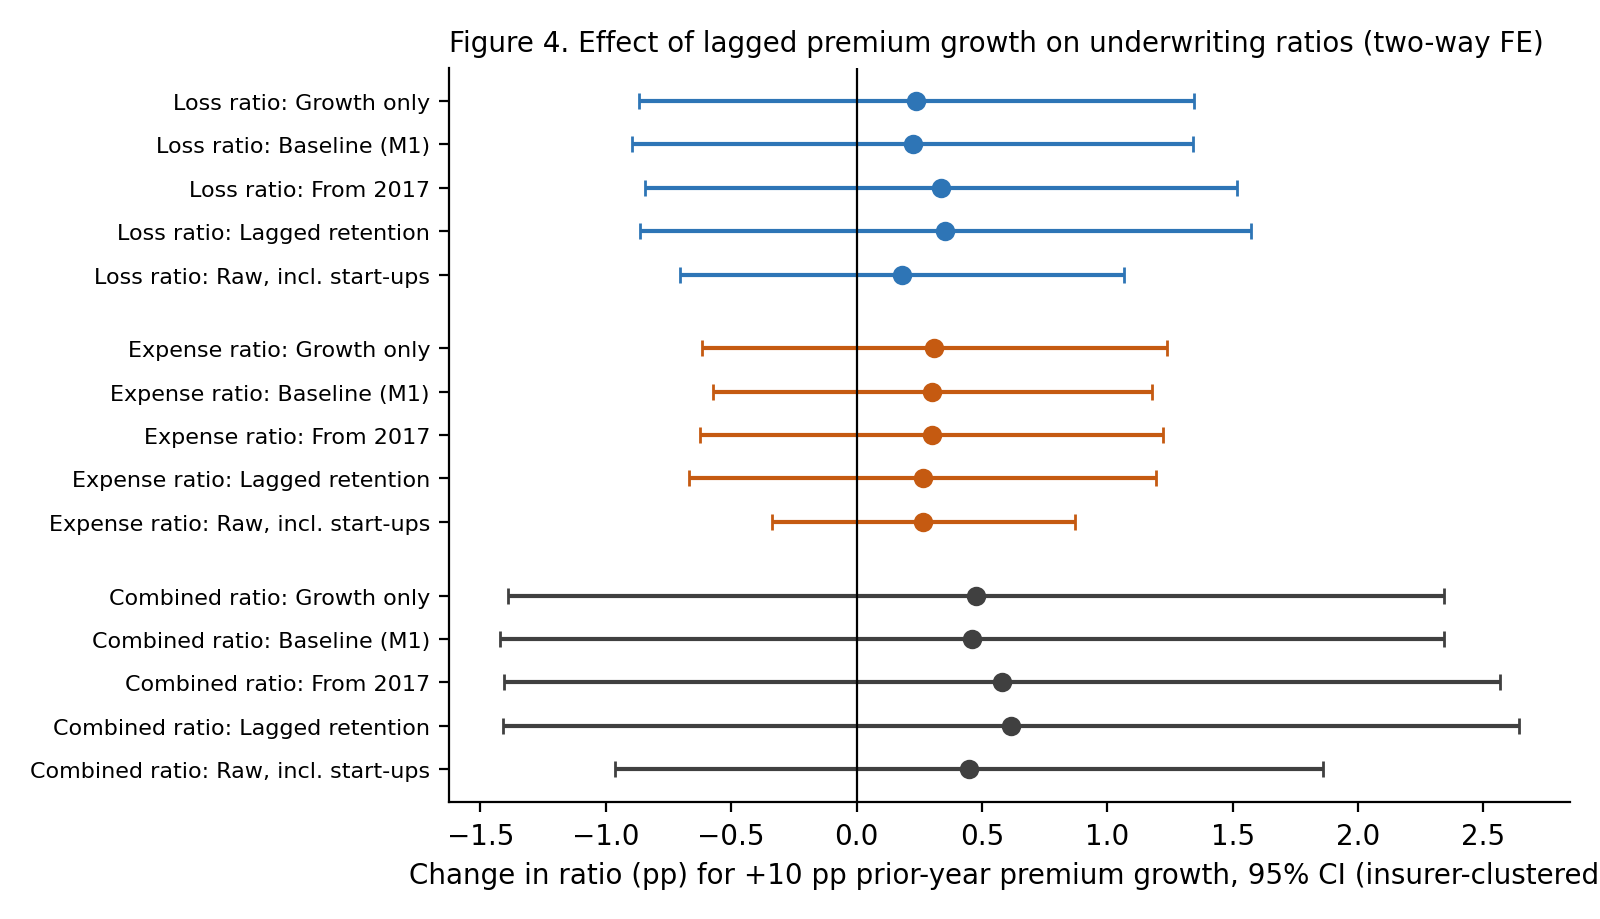
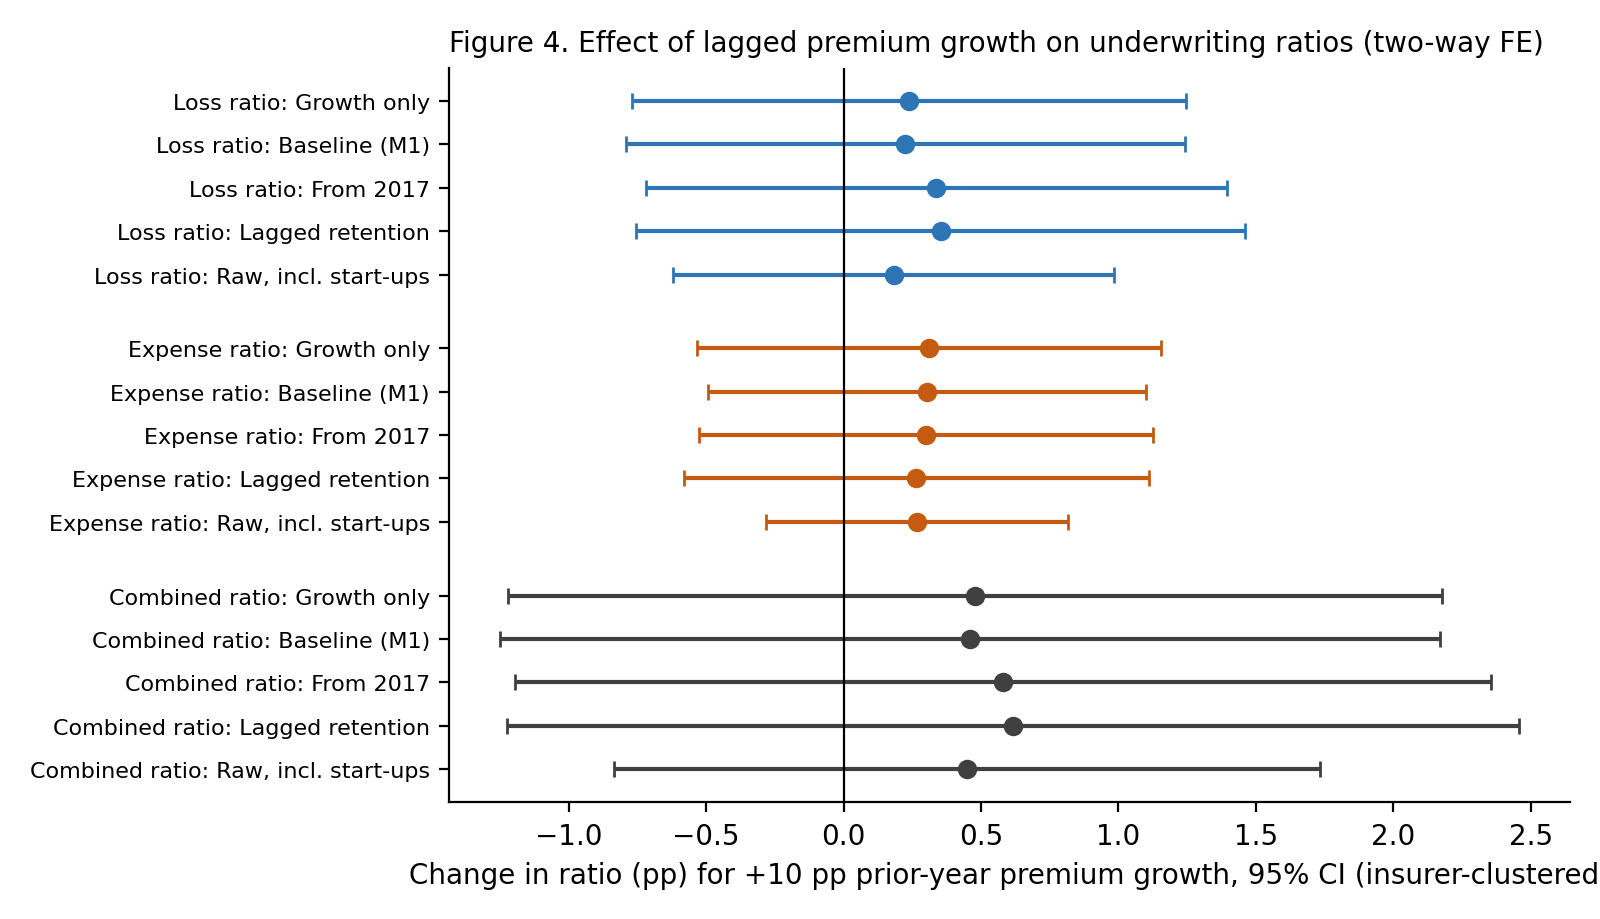
Count year effects but not insurer effects in clustered-SE correction (D12)
Insurer effects are nested within the insurer clusters, so the small-sample
correction should not count them (Stata xtreg/reghdfe; Cameron & Miller 2015).
linearmodels ignores count_effects=False when time_effects=True, so 04's fe()
now enters year effects as explicit dummies for clustered models and fits
with count_effects=False. Driscoll-Kraay, wild cluster bootstrap,
Anderson-Hsiao and diagnostics are unchanged.

- Coefficients, DK SEs, WCB p-values, nobs and r2_within unchanged (r2_within
  kept from the two-way fit; year-dummy rows dropped from regressions.csv).
- Clustered SEs x sqrt((N-k-G-(T-1))/(N-k-(T-1))): 0.909 for headline M1,
  0.890-0.911 across sensitivity models.
- 07: four SE pins updated (0.0519, 0.0406, 0.0873, 5.1425) with comment;
  29 passed, 0 failed.
- No growth result changes significance; size -> ER crosses 5% in M5 and raw
  (p 0.06 -> 0.04). MDE for CR 2.69 -> 2.44 pp per +10 pp growth.
- R Step 1: effect="individual" + factor(year); R SEs now equal Python's.
- Docs: D12 row and note, headline results, D10 TWFE bullet, CLAUDE.md.
- Regenerated regressions.csv, results_summary.json, Figure 4, R_results.txt.

diff --git a/src/04_analysis.py b/src/04_analysis.py
@@ -1,4 +1,5 @@
 import pandas as pd, numpy as np, json, warnings
+from types import SimpleNamespace
 warnings.filterwarnings('ignore')
 from linearmodels.panel import PanelOLS, RandomEffects
 """Step 4: descriptives, two-way FE models, diagnostics, wild cluster bootstrap, Anderson-Hsiao, out-of-sample check.
@@ -44,7 +45,18 @@ base.to_csv(PROCESSED/'estimation_sample.csv',index=False)
 def fe(df,y,X,cov='clustered',time=True):
     d=df.set_index(['insurer_id','year'])
     m=PanelOLS(d[y],d[X],entity_effects=True,time_effects=time,drop_absorbed=True)
-    if cov=='clustered': return m.fit(cov_type='clustered',cluster_entity=True)
+    if cov=='clustered':
+        # SE convention (D12): count year effects but not insurer effects, which are nested in the insurer
+        # clusters (as Stata xtreg/reghdfe; Cameron & Miller 2015). linearmodels ignores count_effects=False
+        # when time_effects=True, so year effects enter as explicit dummies. Coefficients are identical;
+        # r2_within is kept from the two-way fit so it still excludes the year effects.
+        yrs=sorted(d.index.get_level_values(1).unique())[1:] if time else []
+        D=pd.DataFrame({f'_yr{t}':(d.index.get_level_values(1)==t).astype(float) for t in yrs},index=d.index)
+        r=PanelOLS(d[y],pd.concat([d[X],D],axis=1),entity_effects=True,drop_absorbed=True).fit(
+            cov_type='clustered',cluster_entity=True,count_effects=False)
+        X=[c for c in r.params.index if not c.startswith('_yr')]
+        return SimpleNamespace(params=r.params[X],std_errors=r.std_errors[X],tstats=r.tstats[X],pvalues=r.pvalues[X],
+                               nobs=r.nobs,rsquared_within=m.fit().rsquared_within)
     if cov=='dk': return m.fit(cov_type='kernel',kernel='bartlett',bandwidth=2)
     return m.fit()
 def tidy(res,name):

diff --git a/src/07_validate.py b/src/07_validate.py
@@ -50,10 +50,14 @@ check(set(mm) <= {2015, 2016, 2021}, f"CR != LR+ER only in documented years {mm}
 def coef(model, term):
     r = T[(T.model == model) & (T.term == term)]
     return float(r.coef.iloc[0]), float(r.se.iloc[0])
-pins = {('LR_w|M1_linear|cluster', 'g_L1_w'): (0.0225, 0.0571),
-        ('ER_w|M1_linear|cluster', 'g_L1_w'): (0.0303, 0.0447),
-        ('CR_w|M1_linear|cluster', 'g_L1_w'): (0.0461, 0.0960),
-        ('ER_w|M1_linear|cluster', 'ln_gwp_L1'): (-11.644, 5.657)}
+# SE pins updated 31 Oct 2026 for the clustered-SE convention change (D12): the small-sample correction now
+# counts year effects but not insurer effects (nested in the insurer clusters), as in Stata xtreg/reghdfe.
+# Every clustered SE fell by sqrt((N-k-G-(T-1))/(N-k-(T-1))): sqrt(138/167) = 0.909 for these M1 models.
+# Previous pins: SE 0.0571, 0.0447, 0.0960, 5.657. Coefficients are unchanged.
+pins = {('LR_w|M1_linear|cluster', 'g_L1_w'): (0.0225, 0.0519),
+        ('ER_w|M1_linear|cluster', 'g_L1_w'): (0.0303, 0.0406),
+        ('CR_w|M1_linear|cluster', 'g_L1_w'): (0.0461, 0.0873),
+        ('ER_w|M1_linear|cluster', 'ln_gwp_L1'): (-11.644, 5.1425)}
 for (m, t), (b0, se0) in pins.items():
     b, se = coef(m, t)
     check(abs(b - b0) < 1e-3 * max(1, abs(b0)) and abs(se - se0) < 1e-3 * max(1, se0),

diff --git a/docs/methodology_decisions.md b/docs/methodology_decisions.md
@@ -15,11 +15,18 @@ Status: **proposed**. Each needs author agreement and, where marked, supervisor 
 | D9 | "Net of market-wide growth" | Year FE do this; excess growth (g - year median) used for thresholds | Equivalent within TWFE; thresholds need a relative measure | No |
 | D10 | System GMM as robustness | Kept (R pgmm + Python pydynpd step 8, collapsed instruments) + Anderson-Hsiao IV in Python. See D10 note below | Instrument proliferation risk with N = 29 | No |
 | D11 | Report null without size | Report 95% CIs in +10pp-growth units and minimum detectable effects | A null must show what it rules out | No |
+| D12 | Clustered-SE small-sample correction counted insurer and year effects (linearmodels default) | Count year effects but not insurer effects, which are nested within the insurer clusters (Stata xtreg / reghdfe convention; Cameron & Miller, 2015). Implemented with year effects as explicit dummies (linearmodels ignores `count_effects=False` when `time_effects=True`). See D12 note below | Counting nested effects over-inflates clustered SEs; aligns Python with R (plm) and Stata | No |
 
-## Headline results under the proposed design (from the first validated run)
-- Lagged growth -> CR: +0.046 pp per 1 pp (SE 0.096); +10 pp growth CI [-1.4, +2.3] pp. Not significant (WCB p = 0.72).
+## D12 note: clustered-SE convention (changed 31 Oct 2026)
+- **Effect.** Coefficients, Driscoll-Kraay SEs, wild-cluster-bootstrap p-values, `nobs` and `r2_within` are unchanged. Every insurer-clustered SE is multiplied by sqrt((N-k-G-(T-1)) / (N-k-(T-1))): 0.909 for the headline M1 models (sqrt(138/167)), and 0.890-0.911 across the sensitivity models.
+- **Pins.** The four pinned SEs in 07_validate.py were updated: g_L1_w 0.0571 -> 0.0519 (LR), 0.0447 -> 0.0406 (ER), 0.0960 -> 0.0873 (CR); ER ln_gwp_L1 5.657 -> 5.1425.
+- **Inference.** No growth coefficient changes significance at 5% or 10%. Size -> ER crosses 5% in two sensitivity models (M5 MID slope and raw incl. start-ups: p 0.06 -> 0.04). At 10%, lagged RET -> ER (0.13 -> 0.10) and size -> ER excl. 2020 (0.12 -> 0.08) cross. Minimum detectable effects fall about 9% (CR: 2.69 -> 2.44 pp per +10 pp growth).
+- **R.** R/twfe_and_system_gmm.R Step 1 now uses `effect = "individual"` with `factor(year)`, so plm's HC1 counts the year dummies. R's clustered SEs then equal Python's to every printed digit. R's p-values use a t distribution and Python's a normal, so p differs slightly.
+
+## Headline results under the proposed design (updated 31 Oct 2026 for D12)
+- Lagged growth -> CR: +0.046 pp per 1 pp (SE 0.087); +10 pp growth CI [-1.2, +2.2] pp. Not significant (WCB p = 0.72).
 - No evidence of convexity (quadratic or piecewise) under clustered SEs or WCB.
-- Size -> ER: -11.6 pp per log unit (p = 0.04). Expense ratio, not loss ratio, drives aggregate CR > 100%.
+- Size -> ER: -11.6 pp per log unit (p = 0.03). Expense ratio, not loss ratio, drives aggregate CR > 100%.
 - MID slope change: not significant, including when 2020 is excluded.
 - Diagnostics: serial correlation in ER and CR; heteroskedasticity; no significant cross-sectional dependence; Hausman does not reject (report RE alongside FE).
 
@@ -62,4 +69,4 @@ The step runs after 07_validate.py and its results are **not pinned**.
 - **Decision.** The thesis uses the pydynpd / xtabond2 convention (Roodman, 2009). pgmm is reported as a check that the result does not depend on the convention.
 - **pgmm results (two-step).** Lagged g: LR +0.096 (p = 0.37), ER +0.012 (p = 0.80), CR +0.165 (p = 0.19). The null holds. AR(1) rejects for LR (p = 0.001) but not for ER or CR. AR(2) never rejects. Sargan p is 0.15 to 0.77. Lagged LR is again negative (-0.17). pgmm warns that a general inverse was used for the robust covariance.
 - **Unresolved.** The AR(1) and AR(2) statistics differ between the packages even when the estimates are identical. One example is LR one-step AR(1): -2.58 in pgmm, -2.12 in pydynpd. pgmm also returns NaN for LR two-step. A third implementation (Stata xtabond2) is needed to settle which is right.
-- **TWFE in R.** Coefficients are identical to Python. Clustered SEs are uniformly 0.893 times Python's: plm's HC1 counts only the 4 slopes (177/173), while linearmodels also counts the absorbed insurer and year effects (177/138). Python's SEs are the more conservative.
+- **TWFE in R.** Coefficients are identical to Python. Before D12, clustered SEs were uniformly 0.893 times Python's: plm's HC1 counted only the 4 slopes (177/173), while linearmodels also counted the absorbed insurer and year effects (177/138). Since D12, both count slopes and year effects (177/167) and the SEs match exactly.

diff --git a/CLAUDE.md b/CLAUDE.md
@@ -27,7 +27,9 @@ predict underwriting performance (loss, expense, combined ratio, year t) in Ghan
 ## Key decisions (see docs/methodology_decisions.md)
 ln(lagged GWP) replaces ln(assets) (assets not published per insurer); net premium-to-equity leverage control;
 growth and market-share growth in separate models; start-up years excluded + 1/99 winsorising (raw as sensitivity);
-CR constructed as LR+ER; MID tested as a post-2020 slope change (insurer-by-class data not public).
+CR constructed as LR+ER; MID tested as a post-2020 slope change (insurer-by-class data not public);
+clustered-SE correction counts year effects, not insurer effects (D12: year effects entered as explicit
+dummies in 04's fe(), since linearmodels ignores count_effects=False with time_effects=True).
 
 ## Open items
 System GMM in R (untested script); verify methods citations;
